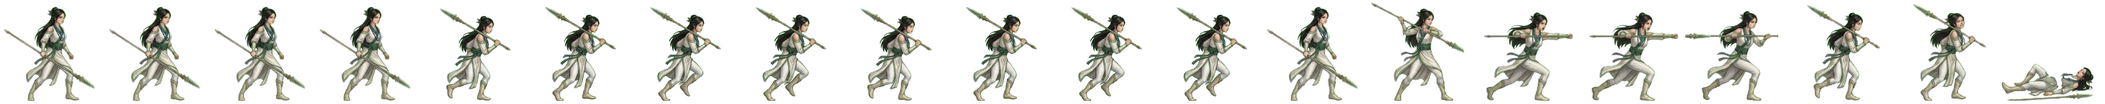
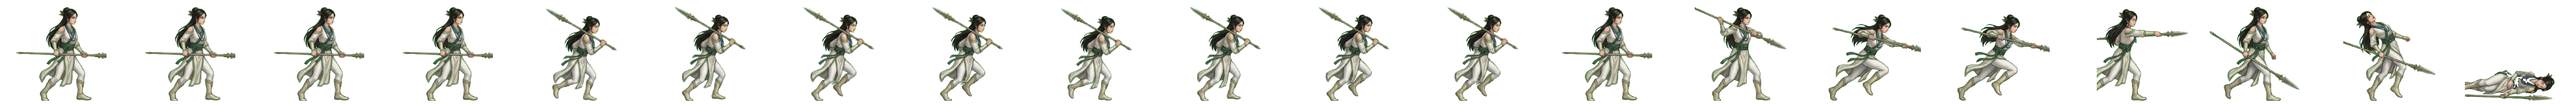
전투 띠 새로: 우스 해솔 동작 다시 — 창날을 앞으로 찌른다 (빈 주먹 찌르기 고침 · 제미나이 u/0 · 11-09 띠 검수) (형 11-08)
Claude-Session: https://claude.ai/code/session_01TRiuNAG8xSjdmjCFpc8Rd5

diff --git a/src/ui/realm/battle-strikes.ts b/src/ui/realm/battle-strikes.ts
@@ -143,7 +143,7 @@ const CONTACT: Readonly<Record<string, [number, number, number]>> = {
   'gen-haebi': [14, 0.87, 0.53], 'gen-heo': [14, 0.94, 0.46], 'gen-hyeokgeose': [14, 0.83, 0.94],
   'gen-hyeopbo': [14, .93, .21], 'gen-malgalgi': [14, 0.88, 0.28], 'gen-mari': [14, .98, .47],
   'gen-oi': [14, .98, .48], 'gen-onjo': [14, 0.83, 0.93], 'gen-soebi': [14, 0.80, 0.95],
-  'gen-soseono': [14, 0.92, 0.31], 'gen-maryeo': [14, 0.91, 0.79], 'gen-horselord': [14, 0.89, 0.25], 'gen-olddaeso': [14, 0.93, 0.91], 'gen-maro': [14, 0.97, 0.49], 'gen-gwaeyu': [14, 0.98, 0.71], 'gen-daemusin': [14, 0.91, 0.38], 'gen-tahae': [14, 0.91, 0.74], 'gen-ocheongan': [14, 0.82, 0.49], 'gen-yusugan': [14, 0.95, 0.70], 'gen-odogan': [14, 0.93, 0.28], 'gen-pidogan': [14, 0.94, 0.75], 'gen-yeodogan': [14, 0.93, 0.57], 'gen-adogan': [14, 0.95, 0.41], 'gen-musoe': [14, 0.94, 0.39], 'gen-suro': [14, 0.82, 0.53], 'gen-waechief': [14, 0.95, 0.68], 'gen-hojin': [14, 0.97, 0.64], 'gen-jita': [14, 0.94, 0.34], 'gen-guryema': [14, 0.89, 0.28], 'gen-jibaekho': [14, 0.97, 0.33], 'gen-sobeol': [14, 0.95, 0.33], 'gen-alpyeong': [14, 0.95, 0.54], 'gen-hogong': [14, 0.98, 0.27], 'gen-geumbawi': [14, 0.91, 0.92], 'gen-keundol': [14, 0.90, 0.68], 'gen-jinha': [14, 0.76, 0.93], 'gen-duman': [14, 0.97, 0.39], 'gen-gomok': [14, 0.94, 0.57], 'gen-hneoul': [14, 0.92, 0.27], 'gen-tneoul': [14, 0.84, 0.57], 'gen-sdallae': [14, 0.89, 0.29], 'gen-yucheongan': [14, 0.97, 0.64], 'gen-sincheongan': [14, 0.91, 0.71], 'gen-singwigan': [14, 0.91, 0.27], 'gen-mdallae': [14, 0.98, 0.30], 'gen-mulbeom': [14, 0.97, 0.36], 'gen-beomi': [14, 0.88, 0.43], 'gen-danbi': [14, 0.90, 0.30], 'gen-mulsae': [14, 0.87, 0.36], 'gen-darae': [14, 0.89, 0.29], 'gen-mir': [14, 0.91, 0.33], 'gen-wan': [14, 0.94, 0.30], 'gen-gom': [14, 0.94, 0.74], 'gen-sagong': [14, 0.79, 0.96], 'gen-halla': [14, 0.86, 0.46], 'gen-areum': [14, 0.86, 0.65], 'gen-dokmudeom': [14, 0.92, 0.29], 'gen-beom': [14, 0.98, 0.28], 'gen-baram': [14, 0.96, 0.24], 'gen-goeun': [14, 0.95, 0.66], 'gen-byeol': [14, 0.76, 0.96], 'gen-sinneoul': [14, 0.94, 0.33], 'gen-haesol': [14, 0.94, 0.34], 'gen-odi': [14, 0.96, 0.46], 'gen-irang': [14, 0.86, 0.30], 'gen-dalli': [14, 0.89, 0.32], 'gen-bakdal': [14, 0.94, 0.27], 'gen-noeul': [14, 0.88, 0.27], 'gen-maehwa': [14, 0.90, 0.31], 'gen-gaon': [14, 0.98, 0.59], 'gen-eomni': [14, 0.96, 0.42], 'gen-nuri': [14, 0.98, 0.34], 'gen-bira': [14, 0.88, 0.33], 'gen-gureum': [14, 0.98, 0.42],
+  'gen-soseono': [14, 0.92, 0.31], 'gen-maryeo': [14, 0.91, 0.79], 'gen-horselord': [14, 0.89, 0.25], 'gen-olddaeso': [14, 0.93, 0.91], 'gen-maro': [14, 0.97, 0.49], 'gen-gwaeyu': [14, 0.98, 0.71], 'gen-daemusin': [14, 0.91, 0.38], 'gen-tahae': [14, 0.91, 0.74], 'gen-ocheongan': [14, 0.82, 0.49], 'gen-yusugan': [14, 0.95, 0.70], 'gen-odogan': [14, 0.93, 0.28], 'gen-pidogan': [14, 0.94, 0.75], 'gen-yeodogan': [14, 0.93, 0.57], 'gen-adogan': [14, 0.95, 0.41], 'gen-musoe': [14, 0.94, 0.39], 'gen-suro': [14, 0.82, 0.53], 'gen-waechief': [14, 0.95, 0.68], 'gen-hojin': [14, 0.97, 0.64], 'gen-jita': [14, 0.94, 0.34], 'gen-guryema': [14, 0.89, 0.28], 'gen-jibaekho': [14, 0.97, 0.33], 'gen-sobeol': [14, 0.95, 0.33], 'gen-alpyeong': [14, 0.95, 0.54], 'gen-hogong': [14, 0.98, 0.27], 'gen-geumbawi': [14, 0.91, 0.92], 'gen-keundol': [14, 0.90, 0.68], 'gen-jinha': [14, 0.76, 0.93], 'gen-duman': [14, 0.97, 0.39], 'gen-gomok': [14, 0.94, 0.57], 'gen-hneoul': [14, 0.92, 0.27], 'gen-tneoul': [14, 0.84, 0.57], 'gen-sdallae': [14, 0.89, 0.29], 'gen-yucheongan': [14, 0.97, 0.64], 'gen-sincheongan': [14, 0.91, 0.71], 'gen-singwigan': [14, 0.91, 0.27], 'gen-mdallae': [14, 0.98, 0.30], 'gen-mulbeom': [14, 0.97, 0.36], 'gen-beomi': [14, 0.88, 0.43], 'gen-danbi': [14, 0.90, 0.30], 'gen-mulsae': [14, 0.87, 0.36], 'gen-darae': [14, 0.89, 0.29], 'gen-mir': [14, 0.91, 0.33], 'gen-wan': [14, 0.94, 0.30], 'gen-gom': [14, 0.94, 0.74], 'gen-sagong': [14, 0.79, 0.96], 'gen-halla': [14, 0.86, 0.46], 'gen-areum': [14, 0.86, 0.65], 'gen-dokmudeom': [14, 0.92, 0.29], 'gen-beom': [14, 0.98, 0.28], 'gen-baram': [14, 0.96, 0.24], 'gen-goeun': [14, 0.95, 0.66], 'gen-byeol': [14, 0.76, 0.96], 'gen-sinneoul': [14, 0.94, 0.33], 'gen-haesol': [14, 0.91, 0.47], 'gen-odi': [14, 0.96, 0.46], 'gen-irang': [14, 0.86, 0.30], 'gen-dalli': [14, 0.89, 0.32], 'gen-bakdal': [14, 0.94, 0.27], 'gen-noeul': [14, 0.88, 0.27], 'gen-maehwa': [14, 0.90, 0.31], 'gen-gaon': [14, 0.98, 0.59], 'gen-eomni': [14, 0.96, 0.42], 'gen-nuri': [14, 0.98, 0.34], 'gen-bira': [14, 0.88, 0.33], 'gen-gureum': [14, 0.98, 0.42],
   'gen-biryu': [14, 0.90, 0.35], 'gen-geumha': [14, 0.94, 0.61], 'gen-geota': [14, 0.86, 0.47], 'gen-soebo': [14, 0.87, 0.57],
   'gen-gaennae': [14, 249 / 264, 47 / 160],
   'gen-budeul': [14, 266 / 280, 51 / 160],

diff --git a/src/realm/data/art.ts b/src/realm/data/art.ts
@@ -519,7 +519,7 @@ export const GEN_ANIM: Readonly<Partial<Record<string, { ar: number; body: numbe
   bira: { ar: 156 / 160, body: 0.900 }, // 11-08 초상대로 다시 (형: 「투구 쓰고 원본과 다르다」 · 제미나이 걷기 4×2 + 동작 4×2 → 20컷 · assets_src/realm/gemini/generals2) · 11-08 처음 · 푸른 깃 머리띠·푸른 짧은 조끼·밧줄 타래·조개 목걸이·작살 창 찌르기 · 걷기는 아랫줄만
   soenun: { ar: 280 / 160, body: 0.9375 }, // 11-08 쇠눈 · 제미나이 u/2 2×2(겨눔·찌르기·거둠·피격) + 새 대화 쓰러짐 · 갯내 4실보행 하체(짙은 바지 · 걷는 동안 쇠 정강이받이는 장화로 보인다) · 창 자루는 걷기에도 남긴다
   odi: { ar: 151 / 160, body: 0.900 }, // 11-08 초상대로 다시 (형: 「투구 쓰고 원본과 다르다」 · 제미나이 걷기 4×2 + 동작 4×2 → 20컷 · assets_src/realm/gemini/generals2) · 11-08 처음 · 조문 오디 동작 다시 — 창을 두 손으로 잡고 앞으로 찌른다 (빈 주먹 찌르기 고침 · 제미나이 u/0 · 11-09 띠 검수)
-  haesol: { ar: 161 / 160, body: 0.900 }, // 11-08 초상대로 다시 (형: 「투구 쓰고 원본과 다르다」 · 제미나이 걷기 4×2 + 동작 4×2 → 20컷 · assets_src/realm/gemini/generals2) · 11-08 처음 · 우산 해솔(솔가지 꽂은 긴 머리·초록 깃 흰 짧은 옷·푸른 구슬·초록 끈 창 찌르기)
+  haesol: { ar: 197 / 160, body: 0.900 }, // 11-08 초상대로 다시 (형: 「투구 쓰고 원본과 다르다」 · 제미나이 걷기 4×2 + 동작 4×2 → 20컷 · assets_src/realm/gemini/generals2) · 11-08 처음 · 우스 해솔 동작 다시 — 창날을 앞으로 찌른다 (빈 주먹 찌르기 고침 · 제미나이 u/0 · 11-09 띠 검수)
   sinneoul: { ar: 163 / 160, body: 0.906 }, // 11-08 초상대로 다시 (형: 「투구 쓰고 원본과 다르다」 · 제미나이 걷기 4×2 + 동작 4×2 → 20컷 · assets_src/realm/gemini/generals2) · 11-08 처음 · 신지 너울(젖은 긴 머리·묶어 입은 흰 삼베 윗옷·짧은 바지·그물 주머니·갈고리 작살 · 맨발)
   byeol: { ar: 155 / 160, body: 0.906 }, // 11-08 초상대로 다시 (형: 「투구 쓰고 원본과 다르다」 · 제미나이 걷기 4×2 + 동작 4×2 → 20컷 · assets_src/realm/gemini/generals2) · 11-08 처음 · 벽진 별(땋은 머리·흰 민소매에 가죽 대장장이 앞치마·맨발·달군 쇠칼 내려치기)
   goeun: { ar: 142 / 160, body: 0.900 }, // 11-08 초상대로 다시 (형: 「투구 쓰고 원본과 다르다」 · 제미나이 걷기 4×2 + 동작 4×2 → 20컷 · assets_src/realm/gemini/generals2) · 11-08 처음 · 신라 고은(붉은 끈 긴 머리·짙은 붉은 비단 짧은 저고리·높게 트인 치마·곧은 고리자루 칼 베기)
